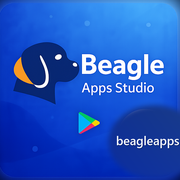
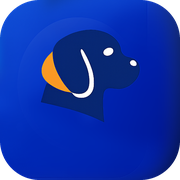
Favikona i podglad linku: oficjalne pliki z brand kitu
Wczoraj zlozylem apple-touch-icon i og:image sam, bo nie wiedzialem o
BeagleAppsStudio-BrandKit. Zastapione oryginalami z 02-favicon i 04-social.

- favicon.ico (16/32/48/64/128/256 w jednym pliku) w korzeniu — dotad
  /favicon.ico zwracalo 404, bo ikona byla tylko jako base64 w <head>
- img/favicon-32.png i -16.png; base64 z <head> usuniete
- img/apple-touch-icon.png <- favicon-180.png
- img/og-beagleapps.png <- og-image-1200x630.png; moj skladak .jpg usuniety
- og:image:alt dopasowany do nowej grafiki

Roznica do przemyslenia: oficjalna grafika OG nie zawiera nazwiska, moja
miala "Marcin Chudaszek" pod nazwa studia.

diff --git a/index.html b/index.html
@@ -19,16 +19,18 @@
     <meta property="og:url" content="https://beagleapps.pl/">
     <meta property="og:title" content="Beagle Apps Studio — aplikacje mobilne, webowe i gry">
     <meta property="og:description" content="Portfolio Marcina Chudaszka: aplikacje na Androida i w przeglądarce, gry, autorska muzyka, filmy i grafika AI.">
-    <meta property="og:image" content="https://beagleapps.pl/img/og-beagleapps.jpg">
+    <meta property="og:image" content="https://beagleapps.pl/img/og-beagleapps.png">
     <meta property="og:image:width" content="1200">
     <meta property="og:image:height" content="630">
-    <meta property="og:image:alt" content="Logo Beagle Apps Studio na tle portretu beagle'a">
+    <meta property="og:image:alt" content="Logo Beagle Apps Studio i adres beagleapps.pl">
 
     <meta name="twitter:card" content="summary_large_image">
     <meta name="twitter:title" content="Beagle Apps Studio — aplikacje mobilne, webowe i gry">
     <meta name="twitter:description" content="Portfolio Marcina Chudaszka: aplikacje na Androida i w przeglądarce, gry, autorska muzyka, filmy i grafika AI.">
-    <meta name="twitter:image" content="https://beagleapps.pl/img/og-beagleapps.jpg">
[1 lines of base64/hex data omitted]
+    <meta name="twitter:image" content="https://beagleapps.pl/img/og-beagleapps.png">
+    <link rel="icon" href="favicon.ico" sizes="any">
+    <link rel="icon" type="image/png" sizes="32x32" href="img/favicon-32.png">
+    <link rel="icon" type="image/png" sizes="16x16" href="img/favicon-16.png">
     <title>Beagle Apps Studio | Portfolio</title>
     <style>
 :root {
